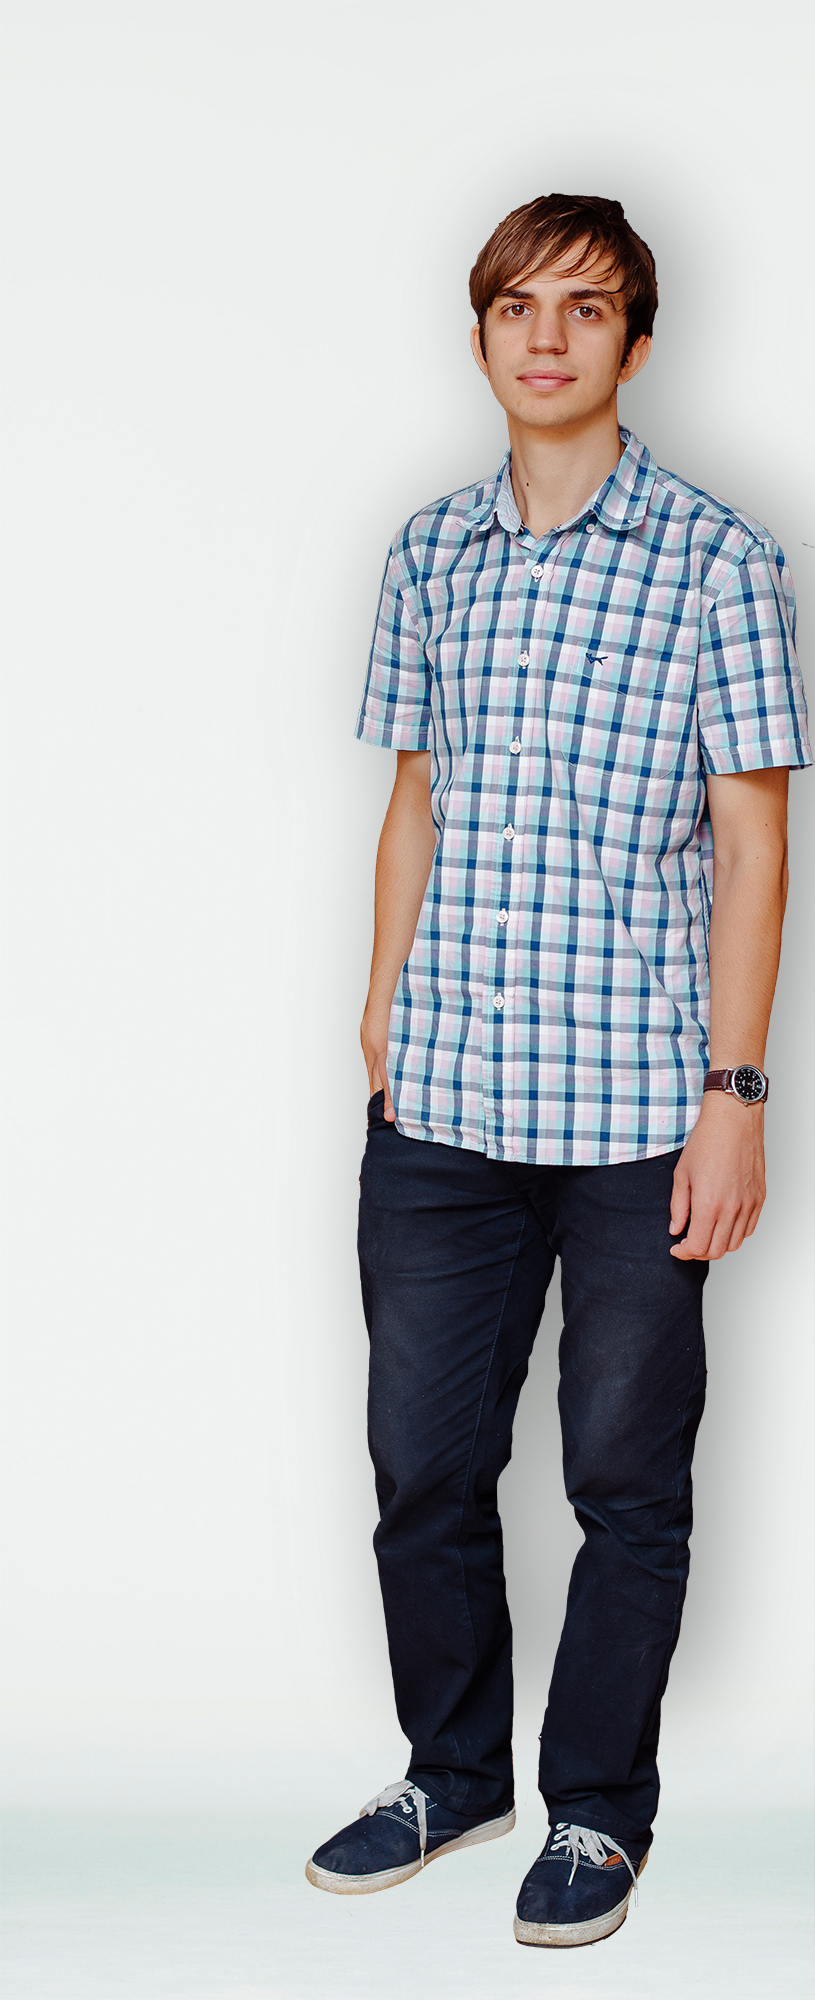
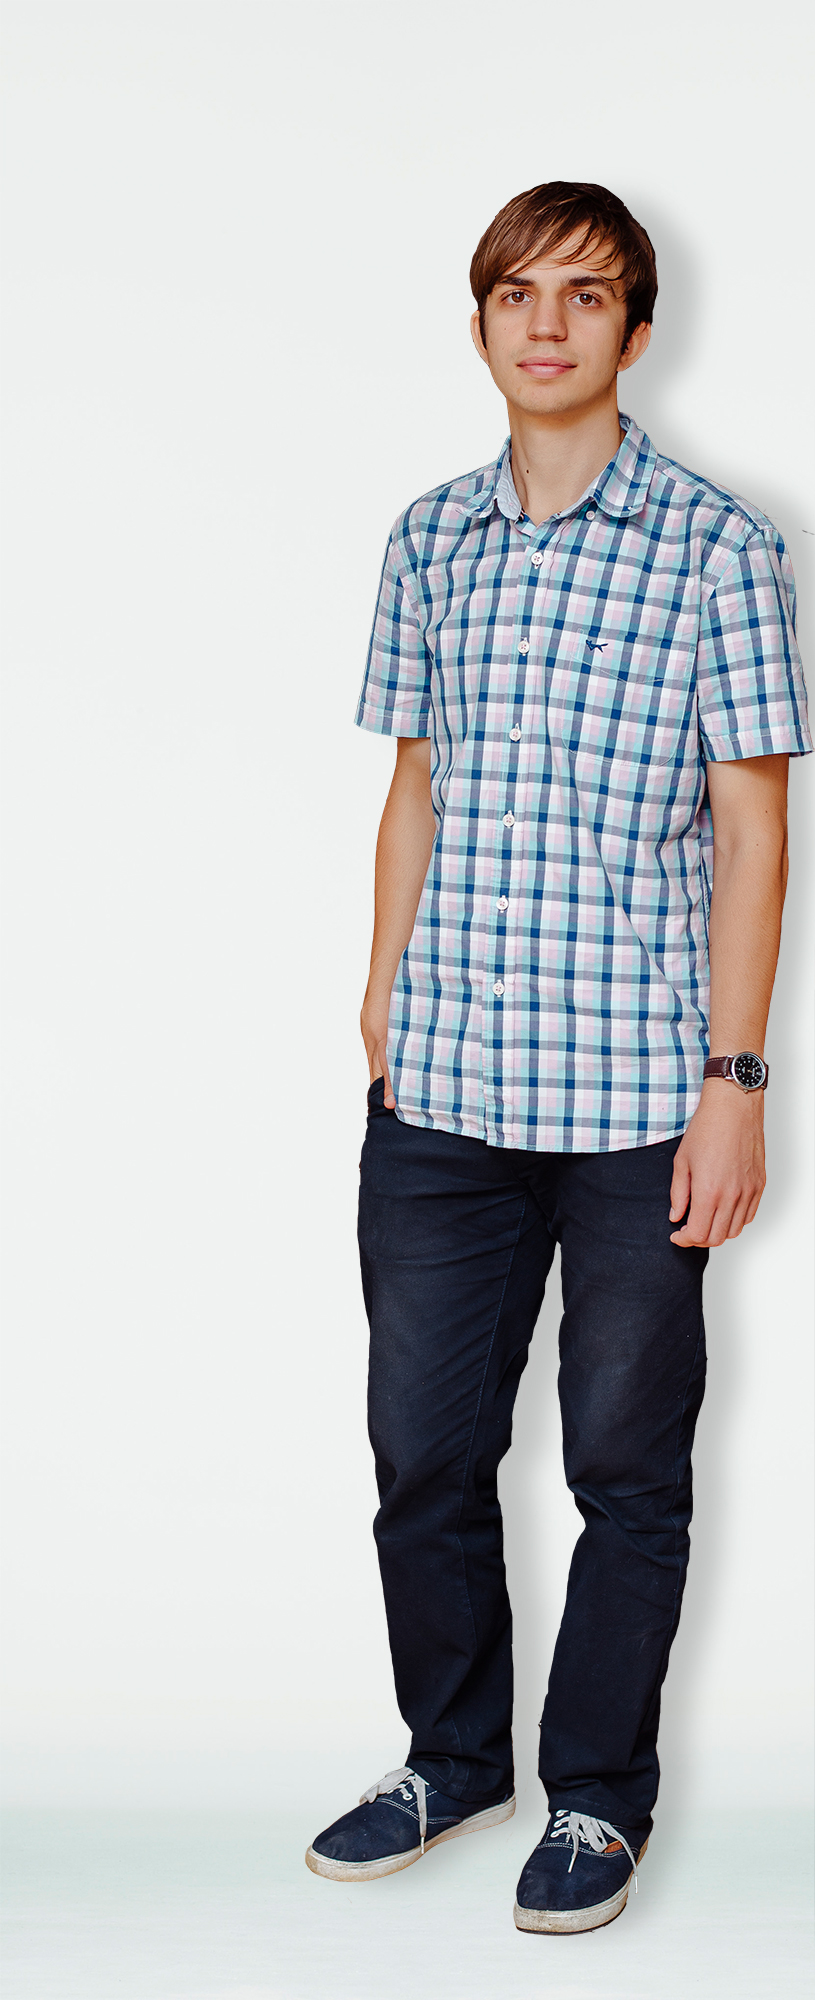
add developer full-length image

diff --git a/public/css/style.css b/public/css/style.css
@@ -2021,16 +2021,25 @@ footer {
 .pp-content{
     padding: 32px 5% 25px 21%;
     overflow: hidden;
+    position: relative;
 }
 .pp-left{
     width: 40%;
     float: left;
 }
-.pp-right{
-    overflow: hidden;
+.ppslider-wrap{
     text-align: left;
-    padding-left: 4%;
-    padding-top: 10px;
+    padding-top: 15px;
+    float: left;
+    width: 41%;
+    position: absolute;
+    left: 54%;
+}
+.pp-right{
+    text-align: left;
+    margin-left: 4%;
+    padding-top: 15px;
+    overflow: hidden;
 }
 .pp-head,
 .pp-left h2{
@@ -2420,9 +2429,10 @@ footer {
     height: auto;
     perspective: 2000px; 
     position: relative;
+    margin-left: 5px;
 }
 #pp-slider > img{
-    width: 60%;
+    width: 67%;
     height: auto;
     position: absolute;
     transform-origin: center;
@@ -2432,7 +2442,7 @@ footer {
     transition: transform .6s ease-out, left .2s ease-in, margin-left .4s ease-out .15s, opacity .3s ease-out .3s, z-index .2s step-end;
     transform: rotateY(-180deg) scale(.9);
     left: -30%;
-    margin-left: 50%;
+    margin-left: 65%;
     z-index: 0;
     opacity: .2;
 }
@@ -2574,6 +2584,10 @@ footer {
         width: 70%;
         padding-left: 19%;
         margin: 0;
+    }
+    .ppslider-wrap{
+        width: 50%;
+        left: 50%;
     }
     .pp-header-text{
         margin-left: 17%;
@@ -3049,6 +3063,10 @@ footer {
     .pp2 .pp-right{
         padding-left: 0;
     }
+    .ppslider-wrap{
+        width: 70%;
+        left: 67%;
+    }
     .involved-devs{
         margin-left: 0;
         float: left;
@@ -3254,6 +3272,9 @@ footer {
         height: 122px;
         line-height: 125px;
         font-size: 38px;
+    }
+    .ppslider-wrap{
+        width: 85%;
     }
     .name-count{
         font-size: 26px;

diff --git a/index.html b/index.html
@@ -18,7 +18,7 @@
 
   <script type="text/javascript" src="public/core/directives/filter.directive.js"></script>
   <script type="text/javascript" src="public/core/directives/contacts.directive.js"></script>
-  <script type="text/javascript" src="public/core/directives/ppslider.directive.js"></script>
+ <!--  <script type="text/javascript" src="public/core/directives/ppslider.directive.js"></script> -->
 
   <script type="text/javascript" src="public/core/controllers/main.controller.js"></script>
   <script type="text/javascript" src="public/core/controllers/home.controller.js"></script>

diff --git a/public/templates/project.html b/public/templates/project.html
@@ -28,9 +28,11 @@
             </p>
         </div>
 
-        <div class="pp-right">
-            <project-slider></project-slider>
-            <img src="public/img/pp3.png" alt="sites">
+        <div class="ppslider-wrap">
+            <div id="pp-slider" project-slider>  
+                  <img id="psliderimg1" class="step1" ng-src="public/img/pro-profie.jpg" alt="image">
+                  <img id="psliderimg2" class="step2" ng-src="public/img/pro-profie.jpg" alt="image">  
+            </div>
         </div>    
     </div>
 
